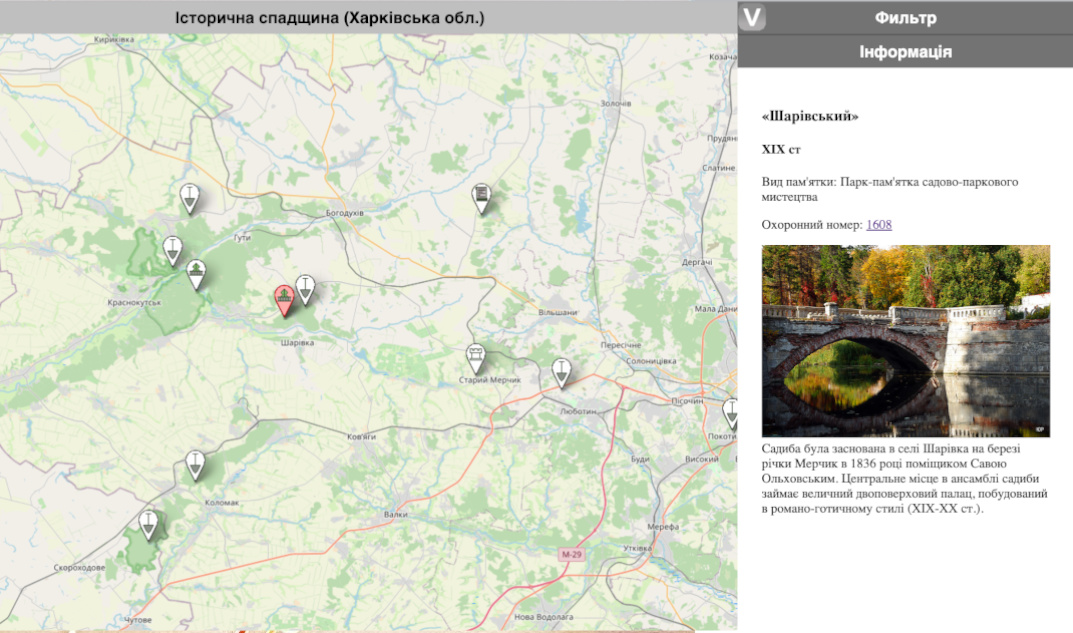
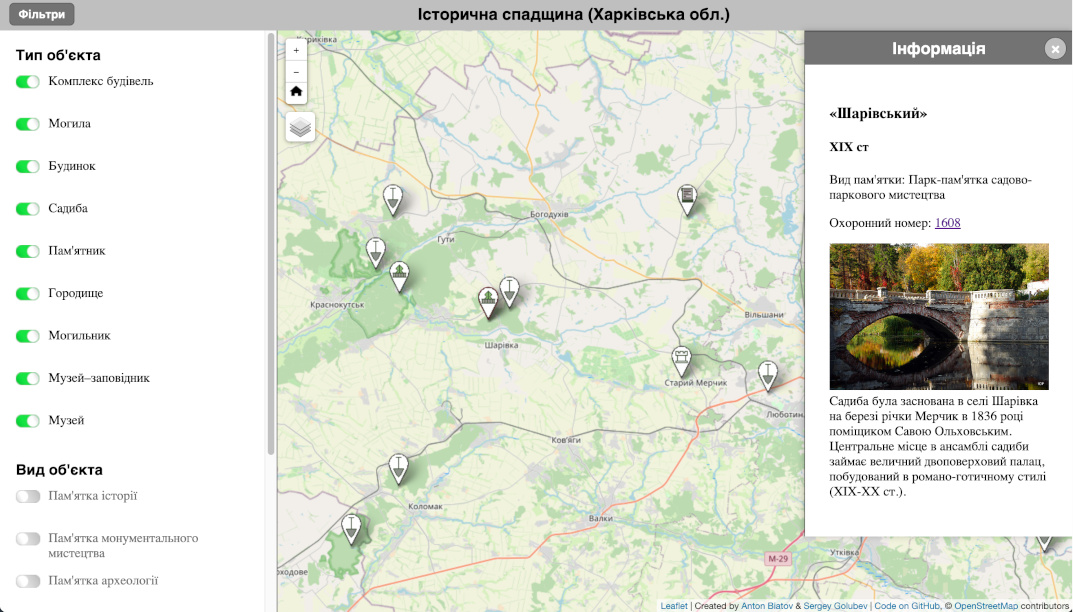
add responsive & update preview

diff --git a/data.js b/data.js
@@ -11,7 +11,7 @@ const data = [
 {id: 10, long: 35.767241, lat: 50.156975, type: "Садиба",			view: "пам'ятка історії",							category: "національне значення", name: "Садиба та місце поховання Г. Сковороди", time: "друга половина XVIII століття, 1794 рік", info: "Садиба-музей Сковороди – меморіальний комплекс, до складу якого належать літературно-меморіальний музей та садиба (кілька будівель XVIII століття) малоземельного козака Сави Сковороди і його дружини Пелагеї, батьків знаменитого українського просвітителя-гуманіста, мандрівного філософа Григорія Сковороди (1722-1794).", place: "с. Сковородинівка", num: "200024-Н", docnum: "Постанова КМУ від 3.09.2009 р. № 928 ", doclink: "https://zakon.rada.gov.ua/laws/show/928-2009-%D0%BF#Text", wiki: "https://www.pslava.info/SkovorodynivkaS_SadybaTaMiscePoxovannjaSkovorody,148484.html", img: "https://www.pslava.info/files/PSlava/INet/LiveJournal.com/hutorjanyn/20090512Skovorod06.jpg", source: "https://uk.wikipedia.org/wiki/Об%27єкти_культурної_спадщини_України_в_Харківській_області?fbclid=IwAR1u45Yj2lIzb4PeA8DoOX3UJ0kb_6WFcBAWWFkpQVpRNPzWiDaeRPv9lBc#Інші_пам'ятки"},
 {id: 11, long: 36.235197, lat: 49.994703, type: "Пам'ятник",		view: "пам'ятка монументального мистецтва",			category: "національне значення", name: "Пам'ятник О. Пушкіну", time: "1904 рік", info: "Па́м'ятник Олекса́ндрові Пу́шкіну — бюст-пам'ятник російському письменнику Олександрові Пушкіну, встановлений у 1904 році на Театральній площі. Один з найстарших пам'ятників Харкова. Скульптором є Борис Едуардс.", place: "пл. Поезії", num: "200010-Н", docnum: "Постанова КМУ від 3.09.2009 р. № 928 ", doclink: "https://zakon.rada.gov.ua/laws/show/928-2009-%D0%BF#Text", wiki: "https://uk.wikipedia.org/wiki/Пам%27ятник_Олександрові_Пушкіну_(Харків)", img: "https://upload.wikimedia.org/wikipedia/uk/thumb/7/79/%D0%9F%D0%B0%D0%BC%27%D1%8F%D1%82%D0%BD%D0%B8%D0%BA_%D0%9E%D0%BB%D0%B5%D0%BA%D1%81%D0%B0%D0%BD%D0%B4%D1%80%D1%83_%D0%9F%D1%83%D1%88%D0%BA%D1%96%D0%BD%D1%83_%D0%B2_%D0%A5%D0%B0%D1%80%D0%BA%D0%BE%D0%B2%D1%96.jpg/468px-%D0%9F%D0%B0%D0%BC%27%D1%8F%D1%82%D0%BD%D0%B8%D0%BA_%D0%9E%D0%BB%D0%B5%D0%BA%D1%81%D0%B0%D0%BD%D0%B4%D1%80%D1%83_%D0%9F%D1%83%D1%88%D0%BA%D1%96%D0%BD%D1%83_%D0%B2_%D0%A5%D0%B0%D1%80%D0%BA%D0%BE%D0%B2%D1%96.jpg", source: "https://uk.wikipedia.org/wiki/Об%27єкти_культурної_спадщини_України_в_Харківській_області?fbclid=IwAR1u45Yj2lIzb4PeA8DoOX3UJ0kb_6WFcBAWWFkpQVpRNPzWiDaeRPv9lBc#Інші_пам'ятки"},
 {id: 12, long: 36.227778, lat: 50.004722, type: "Пам'ятник",		view: "пам'ятка монументального мистецтва", 		category: "національне значення", name: "Пам'ятник В. Каразіну", time: "1907 рік", info: "Пам'ятник видатному українському вченому-просвітнику, винахіднику, громадському діячеві, засновнику першого у східній Україні університету (1805) Василю Каразіну в Харкові.", place: "пл. Свободи", num: "200011-Н", docnum: "Постанова КМУ від 3.09.2009 р. № 928 ", doclink: "https://zakon.rada.gov.ua/laws/show/928-2009-%D0%BF#Text", wiki: "https://uk.wikipedia.org/wiki/Пам%27ятник_Василю_Каразіну", img: "https://upload.wikimedia.org/wikipedia/commons/thumb/2/27/%D0%9F%D0%B0%D0%BC%D1%8F%D1%82%D0%BD%D0%B8%D0%BA_%D0%9A%D0%B0%D1%80%D0%B0%D0%B7%D0%B8%D0%BD%D1%83.JPG/576px-%D0%9F%D0%B0%D0%BC%D1%8F%D1%82%D0%BD%D0%B8%D0%BA_%D0%9A%D0%B0%D1%80%D0%B0%D0%B7%D0%B8%D0%BD%D1%83.JPG", source: "https://uk.wikipedia.org/wiki/Об%27єкти_культурної_спадщини_України_в_Харківській_області?fbclid=IwAR1u45Yj2lIzb4PeA8DoOX3UJ0kb_6WFcBAWWFkpQVpRNPzWiDaeRPv9lBc#Інші_пам'ятки"},
-{id: 13, long: 36.232928, lat: 49.994919, type: "Пам'ятник",		view: "пам'ятка монументального мистецтва", 		category: "національне значення", name: "Пам'ятник М. Гоголю", time: "1909 рік", info: "Па́м'ятник Мико́лі Го́голю — бронзовий бюст-пам'ятник українському письменнику Миколі Гоголю, встановлений у 1909 році на Театральній площі напроти Харківського академічного українського драматичного театру ім. Т. Шевченка. Один з найстарших пам'ятників Харкова. Скульптором є Борис Едуардс.", place: "пл. Театральна", num: "200013-Н", docnum: "Постанова КМУ від 3.09.2009 р. № 928 ", doclink: "https://zakon.rada.gov.ua/laws/show/928-2009-%D0%BF#Text", wiki: "https://uk.wikipedia.org/wiki/Пам%27ятник_Миколі_Гоголю_(Харків)", img: "https://uk.wikipedia.org/wiki/Файл:Пам%27ятник_Миколі_Гоголю_в_Харкові.jpg", source: "https://uk.wikipedia.org/wiki/Об%27єкти_культурної_спадщини_України_в_Харківській_області?fbclid=IwAR1u45Yj2lIzb4PeA8DoOX3UJ0kb_6WFcBAWWFkpQVpRNPzWiDaeRPv9lBc#Інші_пам'ятки"},
+{id: 13, long: 36.232928, lat: 49.994919, type: "Пам'ятник",		view: "пам'ятка монументального мистецтва", 		category: "національне значення", name: "Пам'ятник М. Гоголю", time: "1909 рік", info: "Па́м'ятник Мико́лі Го́голю — бронзовий бюст-пам'ятник українському письменнику Миколі Гоголю, встановлений у 1909 році на Театральній площі напроти Харківського академічного українського драматичного театру ім. Т. Шевченка. Один з найстарших пам'ятників Харкова. Скульптором є Борис Едуардс.", place: "пл. Театральна", num: "200013-Н", docnum: "Постанова КМУ від 3.09.2009 р. № 928 ", doclink: "https://zakon.rada.gov.ua/laws/show/928-2009-%D0%BF#Text", wiki: "https://uk.wikipedia.org/wiki/Пам%27ятник_Миколі_Гоголю_(Харків)", img: "https://upload.wikimedia.org/wikipedia/uk/thumb/d/d5/%D0%9F%D0%B0%D0%BC%27%D1%8F%D1%82%D0%BD%D0%B8%D0%BA_%D0%9C%D0%B8%D0%BA%D0%BE%D0%BB%D1%96_%D0%93%D0%BE%D0%B3%D0%BE%D0%BB%D1%8E_%D0%B2_%D0%A5%D0%B0%D1%80%D0%BA%D0%BE%D0%B2%D1%96.jpg/500px-%D0%9F%D0%B0%D0%BC%27%D1%8F%D1%82%D0%BD%D0%B8%D0%BA_%D0%9C%D0%B8%D0%BA%D0%BE%D0%BB%D1%96_%D0%93%D0%BE%D0%B3%D0%BE%D0%BB%D1%8E_%D0%B2_%D0%A5%D0%B0%D1%80%D0%BA%D0%BE%D0%B2%D1%96.jpg", source: "https://uk.wikipedia.org/wiki/Об%27єкти_культурної_спадщини_України_в_Харківській_області?fbclid=IwAR1u45Yj2lIzb4PeA8DoOX3UJ0kb_6WFcBAWWFkpQVpRNPzWiDaeRPv9lBc#Інші_пам'ятки"},
 {id: 14, long: 36.234167, lat: 50.001111, type: "Пам'ятник",		view: "пам'ятка монументального мистецтва", 		category: "національне значення", name: "Пам'ятник Т. Шевченку", time: "1935 рік", info: "Пам'ятник Тарасові Григоровичу Шевченку в Харкові — пам'ятник українському поетові, письменнику, митцю і мислителю Тарасові Григоровичу Шевченку в місті Харкові, один з найкращих зразків монументальної Шевченкіани у світі.", place: "вул. Сумська, 35", num: "200014-Н", docnum: "Постанова КМУ від 3.09.2009 р. № 928 ", doclink: "https://zakon.rada.gov.ua/laws/show/928-2009-%D0%BF#Text", wiki: "https://uk.wikipedia.org/wiki/Пам%27ятник_Тарасові_Шевченку_(Харків)", img: "https://upload.wikimedia.org/wikipedia/uk/thumb/9/98/Taras_Shevchenko_monument_Kharkiv.jpg/491px-Taras_Shevchenko_monument_Kharkiv.jpg", source: "https://uk.wikipedia.org/wiki/Об%27єкти_культурної_спадщини_України_в_Харківській_області?fbclid=IwAR1u45Yj2lIzb4PeA8DoOX3UJ0kb_6WFcBAWWFkpQVpRNPzWiDaeRPv9lBc#Інші_пам'ятки"},
 {id: 15, long: 36.192609, lat: 49.922215, type: "Городище",			view: "пам'ятка археології",						category: "національне значення", name: "Донецьке городище, селища А, Б, В", time: "епоха бронзи, рання залізна доба, скіфська культура, розвинуте середньовіччя, роменська культура, Київська Русь (II тисячоліття — X століття до нашої ери, IX століття до нашої ери — IV століття, X-XIII ст.ст.)", info: "Донецьке городище — багатошарова пам'ятка археології національного значення, що розташована на високому мисі правого берега річки Уди на території міста Харкова. У відкладах культурного шару зафіксовані різноманітні археологічні матеріали в широкому хронологічному діапазоні від епохи бронзи і до давньоруського часу.", place: "Жовтневий район, на північний схід від станції Карачівка", num: "200001-Н", docnum: "Постанова КМУ від 3.09.2009 р. № 929", doclink: "https://zakon.rada.gov.ua/laws/show/928-2009-%D0%BF#Text", wiki: "https://uk.wikipedia.org/wiki/Донецьке_городище, https://www.pslava.info/XarkivM_DoneckeHillfort_PasportnaInformacija,145443.html, http://www.spadschina.kh.ua/донецьке-городище.html", img: "https://upload.wikimedia.org/wikipedia/commons/thumb/a/ab/Donets_15.jpg/640px-Donets_15.jpg", source: "https://uk.wikipedia.org/wiki/Об%27єкти_культурної_спадщини_України_в_Харківській_області?fbclid=IwAR1u45Yj2lIzb4PeA8DoOX3UJ0kb_6WFcBAWWFkpQVpRNPzWiDaeRPv9lBc#Інші_пам'ятки"},
 {id: 16, long: 35.271088, lat: 50.156403, type: "Городище",			view: "пам'ятка археології",						category: "національне значення", name: "Городище «Полкова Микитівка» та могильник", time: "рання залізна доба, скіфська культура (IX століття до нашої ери — IV століття)", info: "Городище скіфської доби", place: "с. Полкова Микитівка", num: "200015-Н", docnum: "Постанова КМУ від 3.09.2009 р. № 930", doclink: "https://zakon.rada.gov.ua/laws/show/928-2009-%D0%BF#Text", wiki: "https://uk.wikipedia.org/wiki/Городище_скіфської_доби_біля_с._Полкова_Микитівка, http://www.spadschina.kh.ua/городище-полкова-микитівка.html", img: "https://upload.wikimedia.org/wikipedia/commons/thumb/0/06/%D0%92%D0%B8%D0%B4_%D0%BD%D0%B0_%D0%B3%D0%BE%D1%80%D0%BE%D0%B4%D0%B8%D1%89%D0%B5_%D0%B1%D1%96%D0%BB%D1%8F_%D1%81._%D0%9F%D0%BE%D0%BB%D0%BA%D0%BE%D0%B2%D0%B0_%D0%9C%D0%B8%D0%BA%D0%B8%D1%82%D1%96%D0%B2%D0%BA%D0%B0.jpg/640px-%D0%92%D0%B8%D0%B4_%D0%BD%D0%B0_%D0%B3%D0%BE%D1%80%D0%BE%D0%B4%D0%B8%D1%89%D0%B5_%D0%B1%D1%96%D0%BB%D1%8F_%D1%81._%D0%9F%D0%BE%D0%BB%D0%BA%D0%BE%D0%B2%D0%B0_%D0%9C%D0%B8%D0%BA%D0%B8%D1%82%D1%96%D0%B2%D0%BA%D0%B0.jpg", source: "https://uk.wikipedia.org/wiki/Об%27єкти_культурної_спадщини_України_в_Харківській_області?fbclid=IwAR1u45Yj2lIzb4PeA8DoOX3UJ0kb_6WFcBAWWFkpQVpRNPzWiDaeRPv9lBc#Інші_пам'ятки"},

diff --git a/index.html b/index.html
@@ -5,12 +5,13 @@
 <head>
 	<title>Історична спадщина (Харкiвська обл.) - веб-мапа</title>
 	<meta http-equiv="content-type" content="text/html;charset=utf-8" />
+	<meta name="viewport" content="width=device-width, initial-scale=1" />
 	<meta name="twitter:card" content="summary">
 	<meta name="twitter:image" content="https://fra1.digitaloceanspaces.com/abspatial/demo/kharkiv-history-heritage/preview_kharkiv_historyheritage.jpg">
 	<meta property="og:title" content="Исторична спадщина (Харкiвська обл.)">
-    <meta property="og:site_name" content="Kharkiv history heritage">
+    <meta property="og:site_name" content="Kharkiv history heritage, Ukraine">
     <meta property="og:url" content="https://fra1.digitaloceanspaces.com/abspatial/demo/kharkiv-history-heritage/index.html">
-    <meta property="og:description" content="">
+    <meta property="og:description" content="веб-мапа">
     <meta property="og:image" content="https://fra1.digitaloceanspaces.com/abspatial/demo/kharkiv-history-heritage/preview_kharkiv_historyheritage.jpg">
 	<link rel="stylesheet" href="style/style.css"/>
 	<script src='leaflet/leaflet.js'></script>

diff --git a/style/style.css b/style/style.css
@@ -212,4 +212,21 @@ body {
 	background: var(--clBtnHover);
 	color: var(--clBlack);
 	}
+@media (max-width: 768px){
+	.pnlLeftOpen{
+		width: 50vw;
+		min-width: 0;
+		}
+	#pnlInfo{
+		top: 80px;
+		width: 50vw;
+		max-width: none;
+		}
+	#pnlTop{
+		height: 80px;
+		}
+	#map{
+		height: calc(100vh - 80px);
+		}
+}
 /* ================================================================= */	
